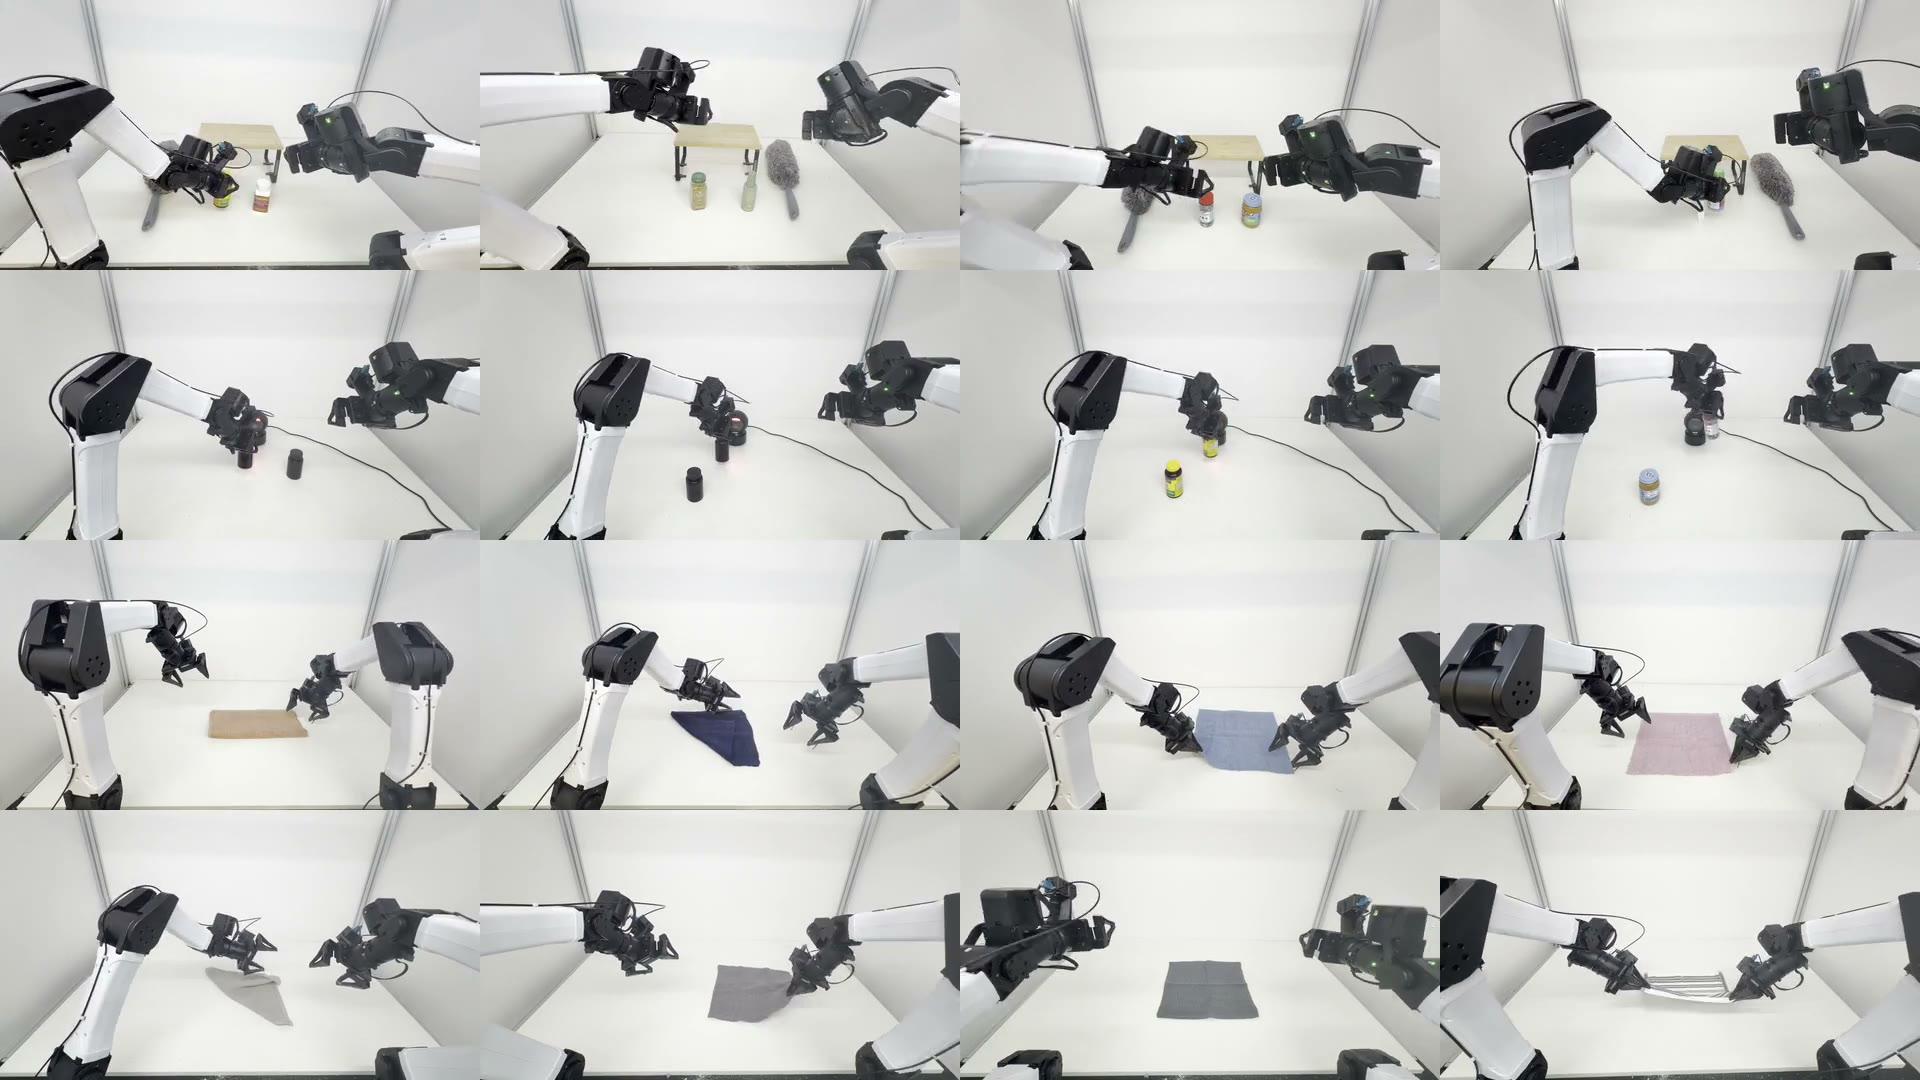
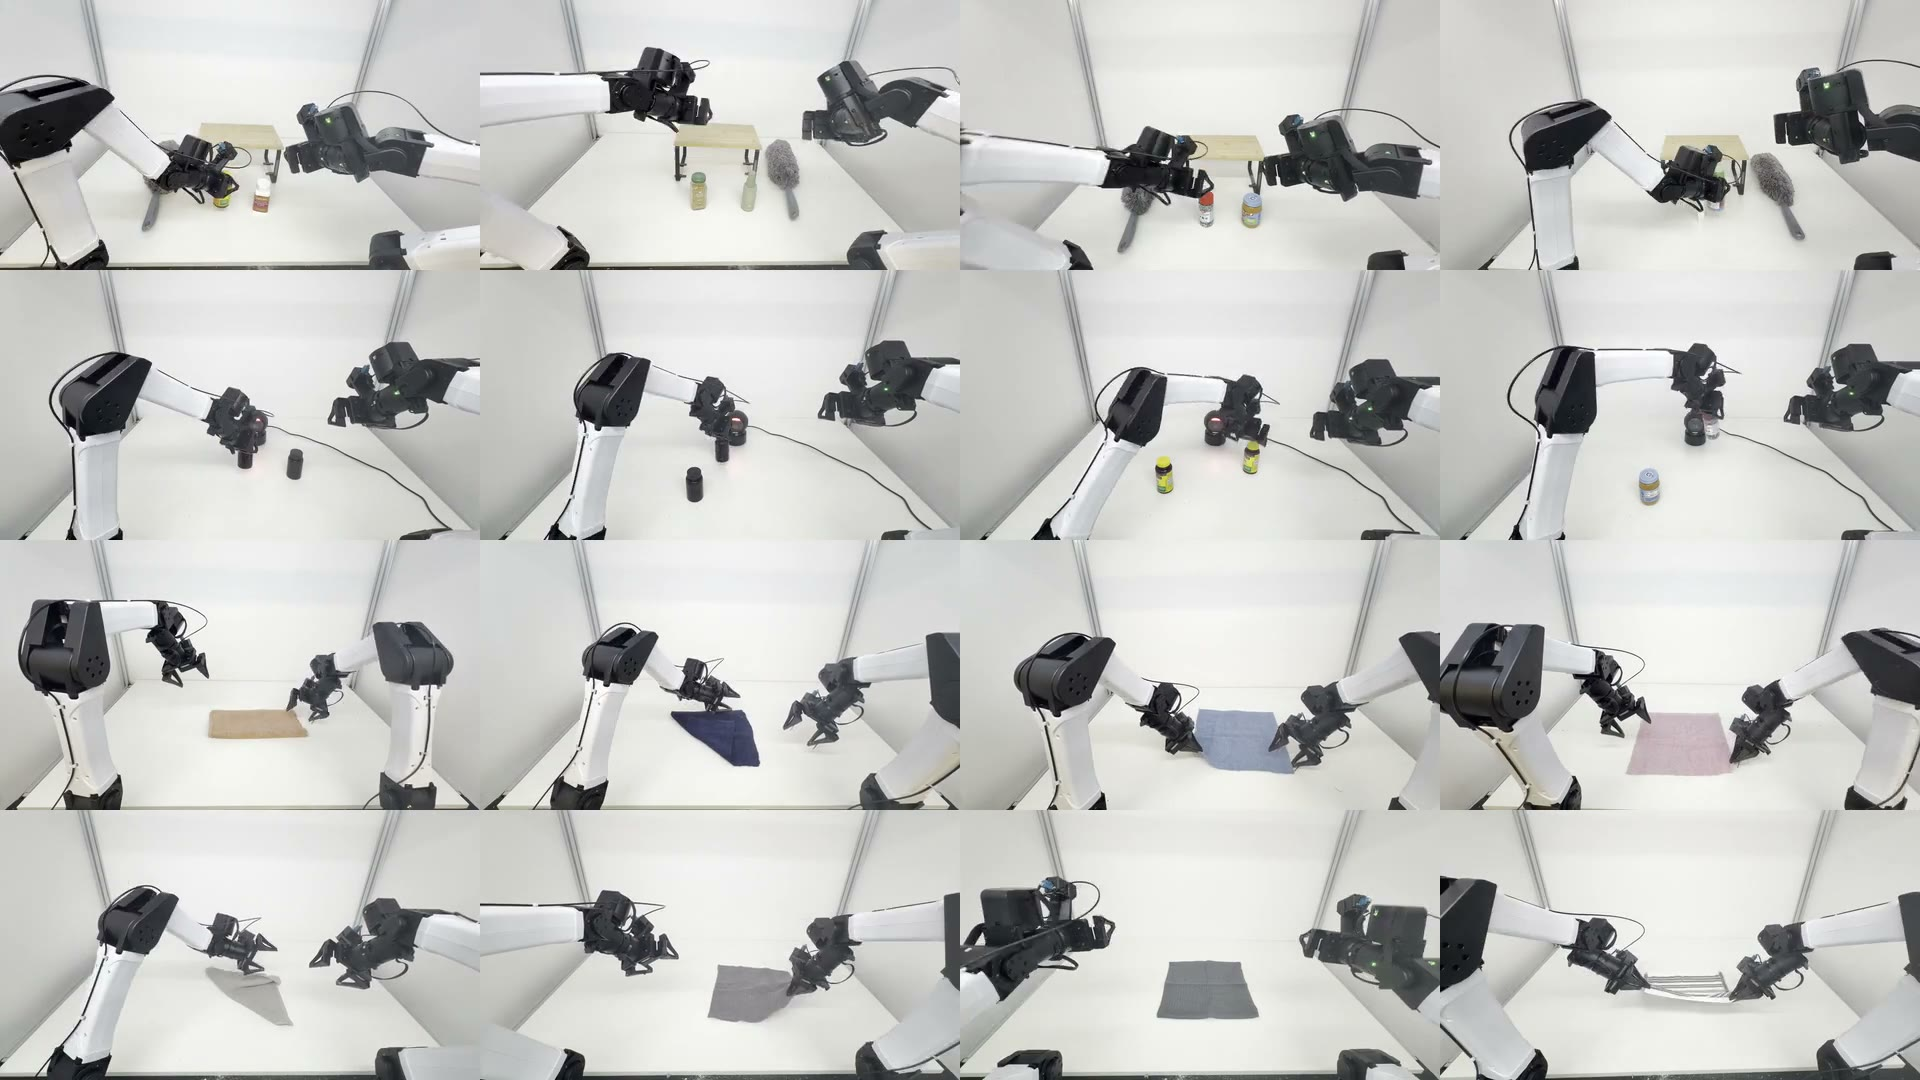
Use cleaner yellow-bottle hero rollout

Changed region(s): [[0.5312, 0.3056, 0.75, 0.5194]]

diff --git a/index.html b/index.html
@@ -24,8 +24,8 @@
     playsinline
     preload="metadata"
     data-preload="auto"
-    poster="static/images/hero-realworld-success-grid.jpg?v=20261007-3x"
-    data-src="static/videos/hero/imprint-realworld-success-grid.mp4?v=20261007-3x"
+    poster="static/images/hero-realworld-success-grid.jpg?v=20261007-yellow-scan-v2"
+    data-src="static/videos/hero/imprint-realworld-success-grid.mp4?v=20261007-yellow-scan-v2"
     aria-hidden="true"
     tabindex="-1"
   ></video>
